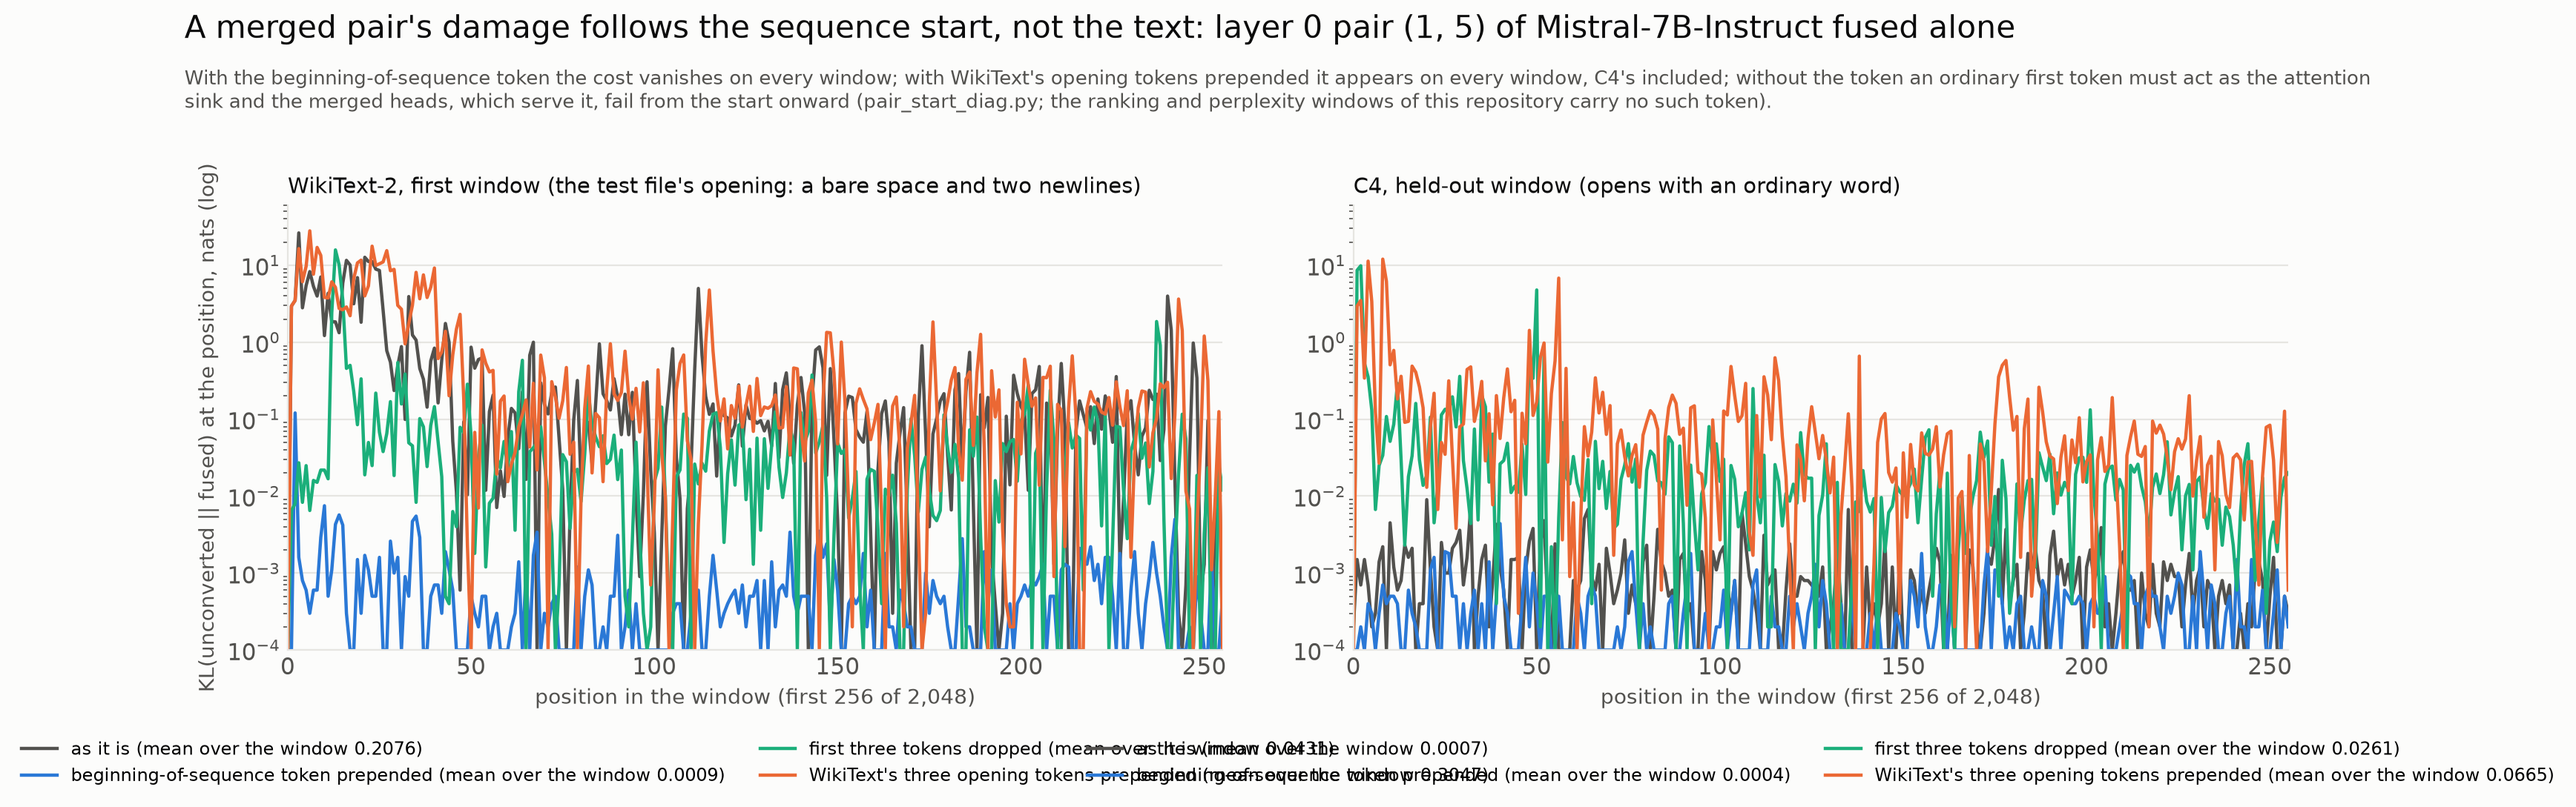
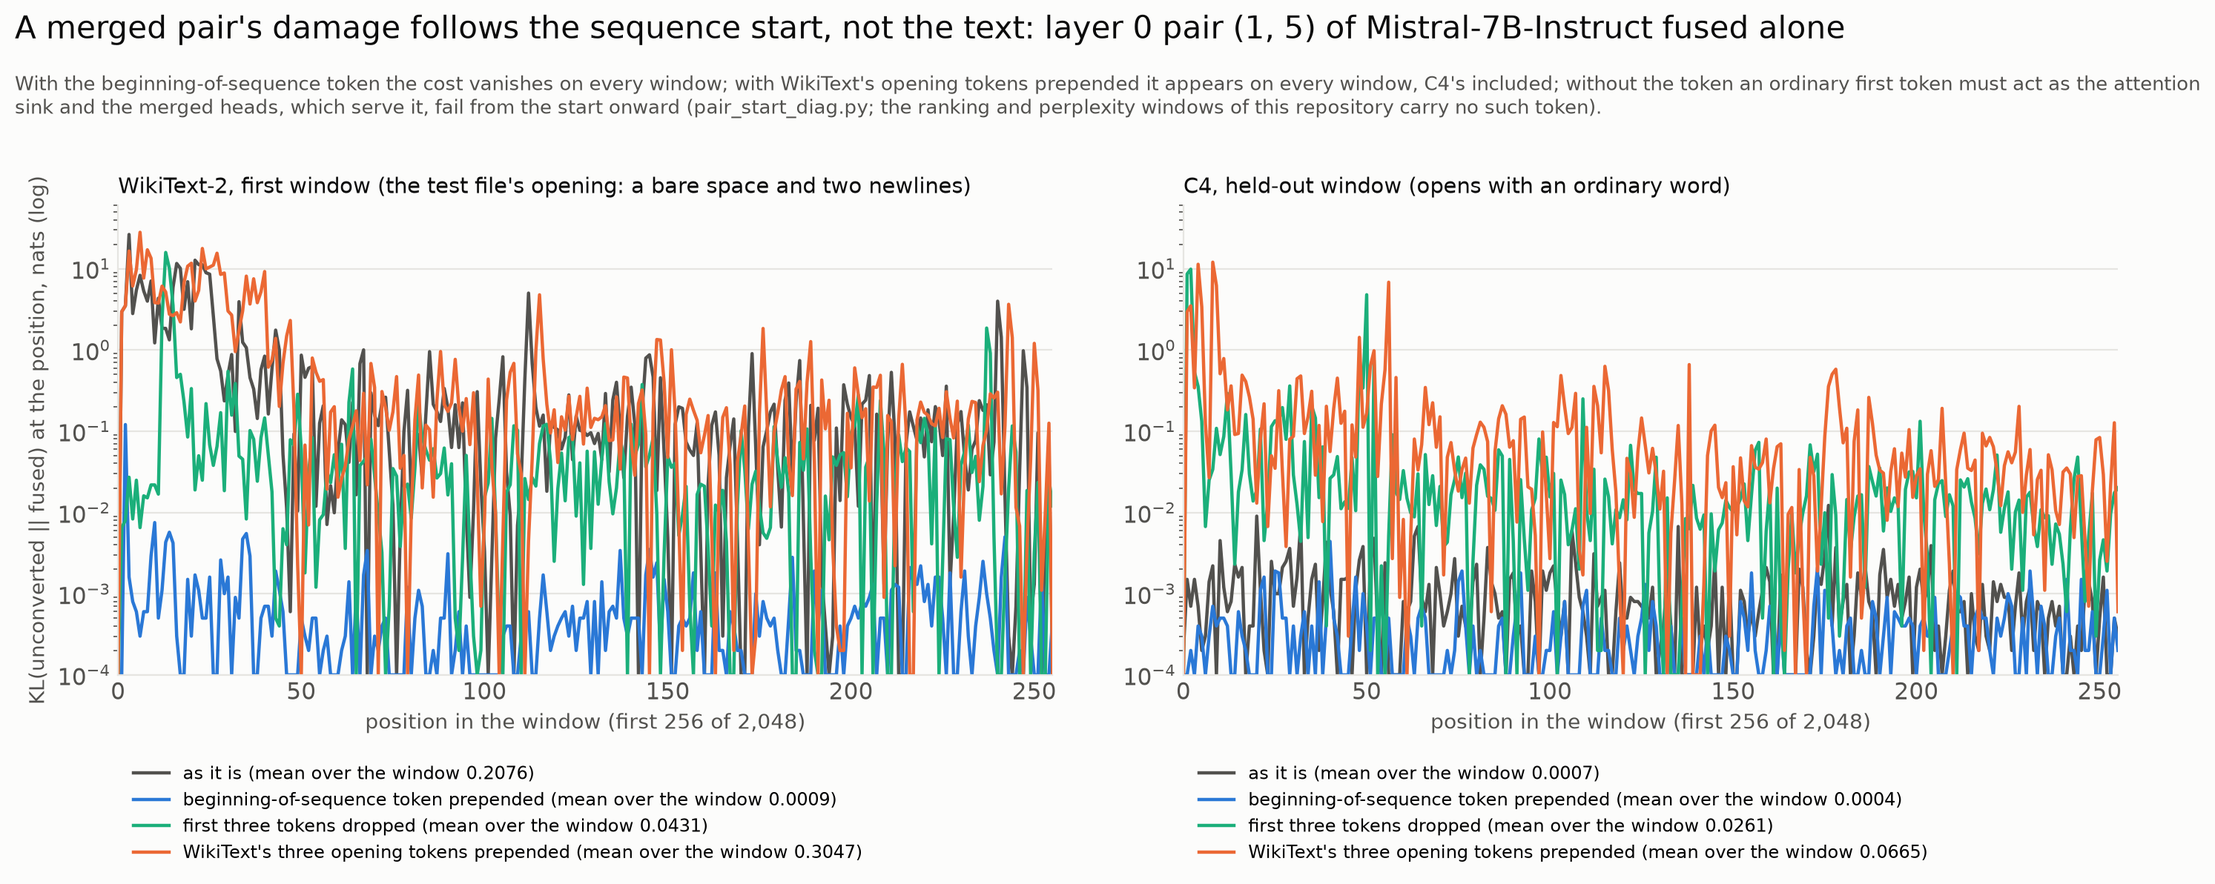
Figure 39: one legend column per panel

diff --git a/make_readme_figures.py b/make_readme_figures.py
@@ -1604,7 +1604,7 @@ if PSD:
     r = json.load(open(PSD[0])); pair = list(r["pairs"])[0]; e = r["pairs"][pair]
     panels = [("wikitext", 0, "WikiText-2, first window (the test file's opening: a bare space and two newlines)"), ("c4", 1, "C4, held-out window (opens with an ordinary word)")]
     VAR = [("as_is", "as it is", INK2, "-"), ("bos_prepended", "beginning-of-sequence token prepended", S1, "-"), ("first_3_dropped", "first three tokens dropped", S3, "-"), ("wikitext_start_prepended", "WikiText's three opening tokens prepended", S2, "-")]
-    fig, axes = plt.subplots(1, 2, figsize=(14.5, 6.0)); fig.subplots_adjust(left=0.06, right=0.99, top=0.76, bottom=0.26, wspace=0.14)
+    fig, axes = plt.subplots(1, 2, figsize=(14.5, 6.6)); fig.subplots_adjust(left=0.06, right=0.99, top=0.78, bottom=0.30, wspace=0.14)
     for ax, (name, wi, title) in zip(axes, panels):
         row = e["texts"][name][wi]
         for key, lab, col, ls in VAR:
@@ -1613,7 +1613,7 @@ if PSD:
         ax.set_xlabel("position in the window (first 256 of 2,048)", fontsize=10); ax.grid(axis="y", color=GRID, lw=0.8); ax.tick_params(length=0)
         for sp in ("top", "right"): ax.spines[sp].set_visible(False)
         for sp in ("left", "bottom"): ax.spines[sp].set_color(GRID)
-        ax.legend(fontsize=8.5, frameon=False, loc="upper center", bbox_to_anchor=(0.5, -0.17), ncol=2)
+        ax.legend(fontsize=8.5, frameon=False, loc="upper left", bbox_to_anchor=(0.0, -0.16), ncol=1)
     axes[0].set_ylabel("KL(unconverted || fused) at the position, nats (log)", fontsize=10)
     fig.text(0.012, 0.975, f"A merged pair's damage follows the sequence start, not the text: layer {r['layer']} pair ({pair.replace('-', ', ')}) of Mistral-7B-Instruct fused alone", fontsize=15, color=INK, va="top")
     fig.text(0.012, 0.915, "With the beginning-of-sequence token the cost vanishes on every window; with WikiText's opening tokens prepended it appears on every window, C4's included; without the token an ordinary first token must act as the attention\n"
